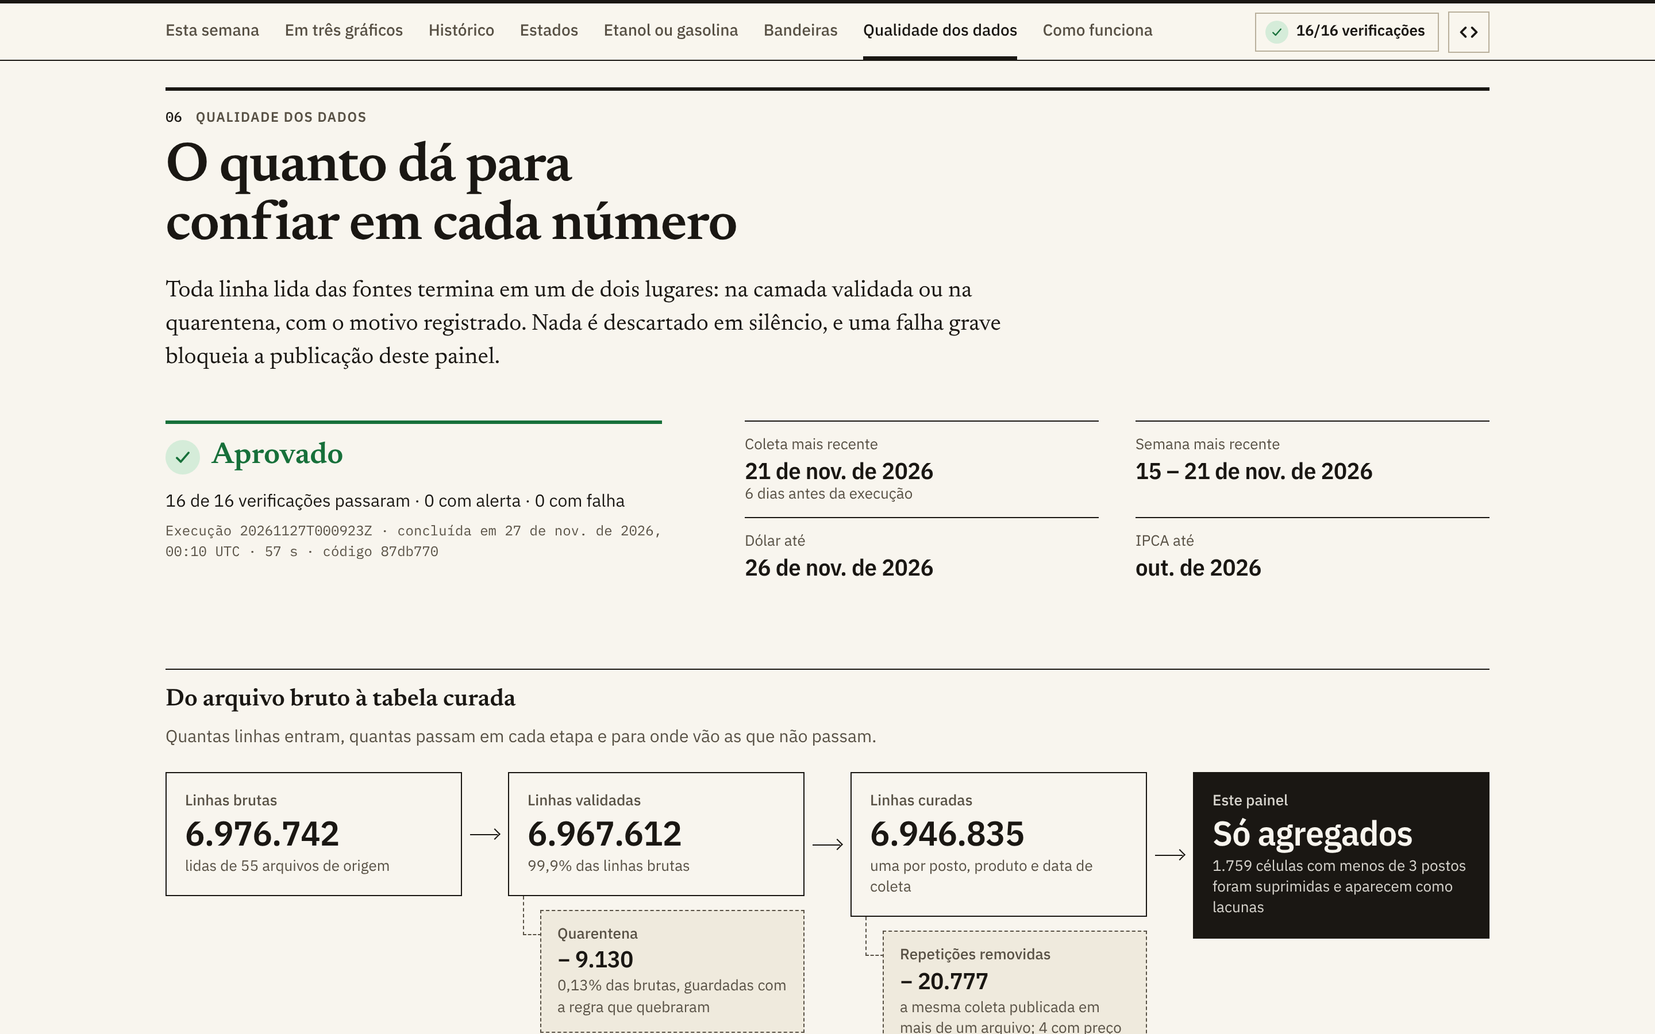
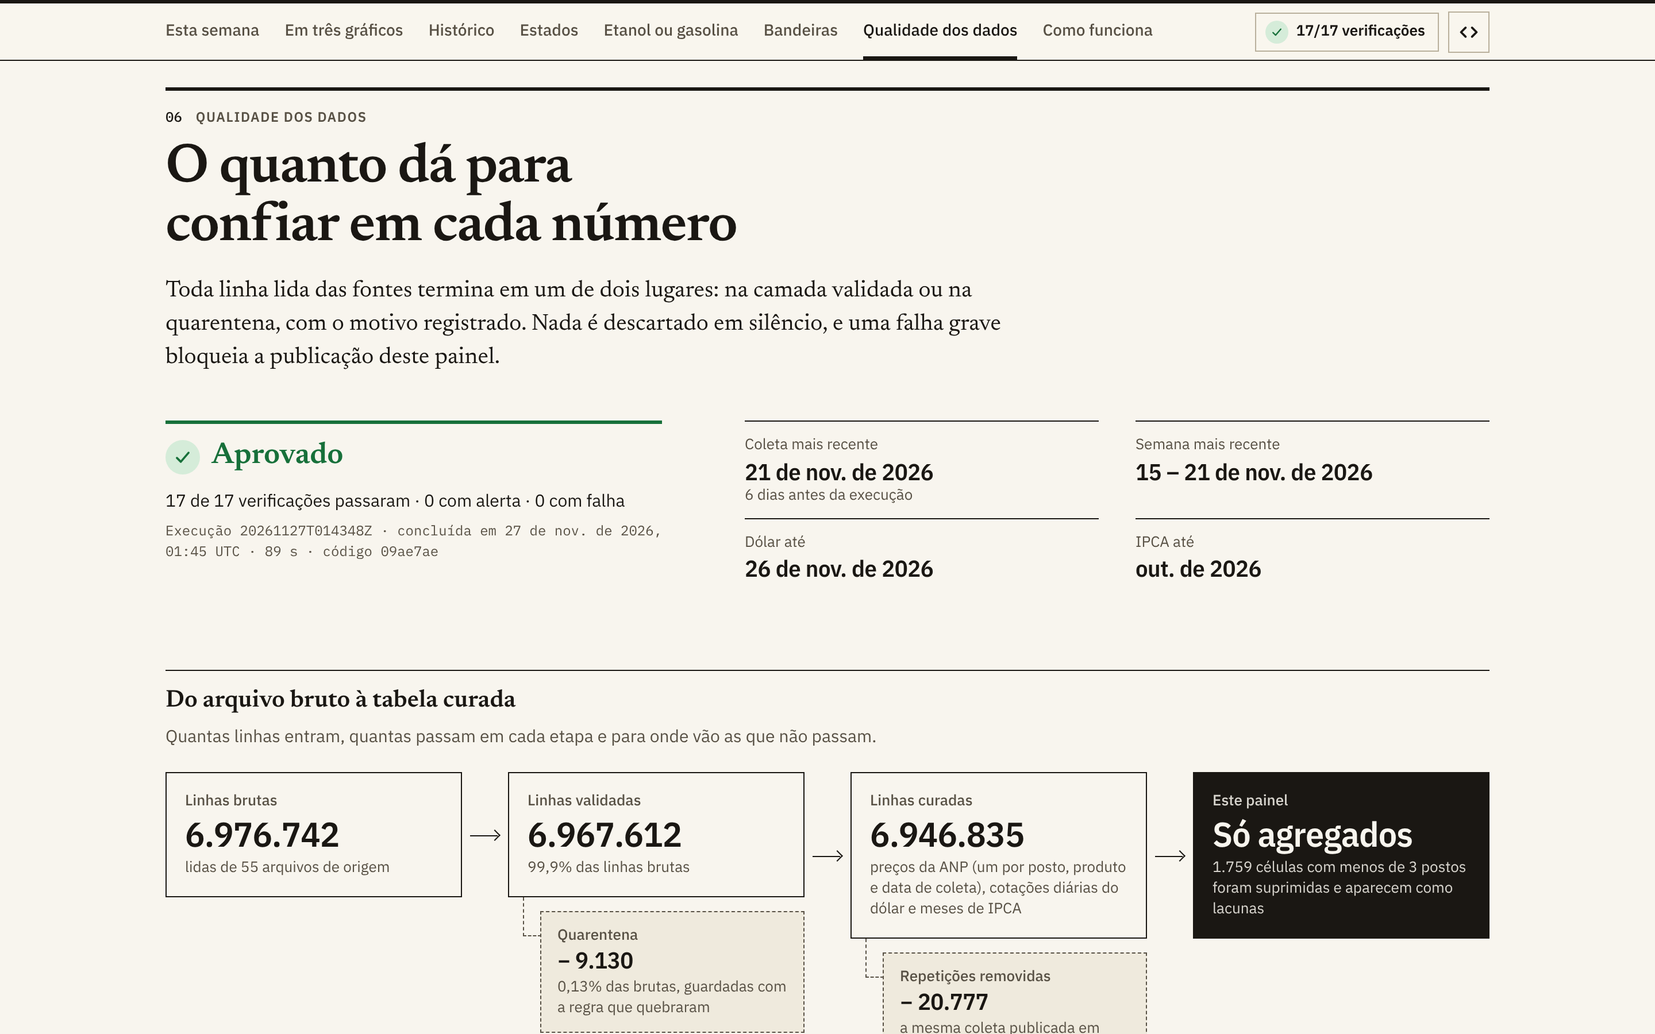
Dashboard: provisional real change, honest axes and labels, accurate copy
- The 12-month change after inflation of a week whose month has no IPCA
  yet uses the IPCA of the 12 months to the latest published month and is
  marked provisional, in the headline text and the table.
- The run-history axis never ticks finer than a day, so it no longer
  repeats the same date; a line that stops early keeps its end label only
  with the date of its last value, and none after 13 weeks.
- A week without an ANP survey says so in the state ranking instead of
  blaming suppression; a rule that caught one row shows its share.
- Keyboard focus and section jumps clear the sticky nav.
- Copy: rules counted for ANP rows (22, of which 18 are errors), the
  contracts named as they are (Pandera, DuckDB checks, Python checks),
  running twice produces identical tables, the curated funnel step names
  both sources, twice a week.
- Screenshots regenerated from a run of 27 November.

Claude-Session: https://claude.ai/code/session_016oQsZBNgyga8DMpdX59L2c

diff --git a/src/fuel_price_lakehouse/site/static/js/strings.js b/src/fuel_price_lakehouse/site/static/js/strings.js
@@ -151,6 +151,10 @@ export const STRINGS = {
     "Em 12 meses, a média nacional variou {nominal} em valores correntes e {real} descontada a inflação (IPCA).",
     "Over 12 months the national average moved {nominal} in current prices and {real} after inflation (IPCA).",
   ],
+  "ov.dek.year.provisional": [
+    "Em 12 meses, a média nacional variou {nominal} em valores correntes e cerca de {real} descontada a inflação: provisório, porque o IPCA de {month} ainda não saiu e a conta usa a inflação dos 12 meses até {reference}.",
+    "Over 12 months the national average moved {nominal} in current prices and about {real} after inflation: provisional, because the IPCA for {month} is not out yet and the figure uses inflation over the 12 months to {reference}.",
+  ],
   "ov.dek.base": [
     "O número é a média de {stations} postos em {states} unidades da federação, pesquisados na semana de {week}.",
     "The figure is the average of {stations} stations in {states} states, surveyed in the week of {week}.",
@@ -184,6 +188,10 @@ export const STRINGS = {
     "Variações sobre a semana anterior e sobre 52 semanas antes; “real” desconta o IPCA (preços de {month}). Médias simples dos postos pesquisados: a ANP pondera as médias nacional e estaduais pelo volume de vendas, por isso os boletins oficiais diferem um pouco. Dólar: média semanal da cotação de venda.",
     "Changes against the previous week and 52 weeks earlier; “real” removes IPCA inflation ({month} prices). Simple means over the surveyed stations: ANP weights its national and state averages by sales volume, so its bulletins differ slightly. Dollar: weekly average of the sell rate.",
   ],
+  "ov.board.provisional": [
+    "* O IPCA de {month} ainda não foi divulgado: a variação real usa a inflação dos 12 meses até {reference} e é provisória.",
+    "* The IPCA for {month} is not out yet: the real change uses inflation over the 12 months to {reference} and is provisional.",
+  ],
   "ov.tot.lead": ["A base, desde {since}", "The dataset, since {since}"],
   "ov.tot.observations": ["preços coletados", "prices collected"],
   "ov.tot.stations": ["postos pesquisados", "stations surveyed"],
@@ -192,8 +200,8 @@ export const STRINGS = {
   "ov.pr.title": ["O que é este projeto", "What this project is"],
   "ov.pr.auto.lead": ["Um pipeline automático.", "An automated pipeline."],
   "ov.pr.auto": [
-    "Toda semana, o GitHub Actions coleta os preços que a ANP pesquisa nos postos e as séries de dólar e IPCA do Banco Central, e reconstrói este painel.",
-    "Every week, GitHub Actions collects the prices ANP surveys at the stations and the dollar and IPCA series from Banco Central, and rebuilds this dashboard.",
+    "Duas vezes por semana, o GitHub Actions coleta os preços que a ANP pesquisa nos postos e as séries de dólar e IPCA do Banco Central, e reconstrói este painel.",
+    "Twice a week, GitHub Actions collects the prices ANP surveys at the stations and the dollar and IPCA series from Banco Central, and rebuilds this dashboard.",
   ],
   "ov.pr.quarantine.lead": ["Quarentena, não exclusão.", "Quarantine, not deletion."],
   "ov.pr.quarantine.plain": [
@@ -201,8 +209,8 @@ export const STRINGS = {
     "Every row goes through validation rules; one that breaks a rule goes to quarantine with the reason, and is never deleted.",
   ],
   "ov.pr.quarantine": [
-    "Cada linha passa por {n} regras; a que quebra uma delas vai para a quarentena com o motivo, nunca é apagada.",
-    "Every row goes through {n} rules; one that breaks a rule goes to quarantine with the reason, and is never deleted.",
+    "Cada linha da ANP passa por {n} regras; a que quebra uma das {errors} regras de erro vai para a quarentena com o motivo, nunca é apagada, e as demais só a sinalizam.",
+    "Every ANP row goes through {n} rules; one that breaks any of the {errors} error rules goes to quarantine with the reason, and is never deleted; the others only flag it.",
   ],
   "ov.pr.gate.lead": ["Um portão de qualidade.", "A quality gate."],
   "ov.pr.gate.plain": [
@@ -324,9 +332,10 @@ export const STRINGS = {
   ],
   "st.rank.unit": ["barras: desvio % em relação à média nacional", "bars: % deviation from the national average"],
   "st.rank.missing": [
-    "Sem dado nesta semana ({n}): {list}. Agregados com menos de {min} postos não são publicados.",
-    "No value this week ({n}): {list}. Aggregates with fewer than {min} stations are not published.",
+    "Sem dado nesta semana ({n}): {list}. Não pesquisados, ou suprimidos por ter menos de {min} postos.",
+    "No value this week ({n}): {list}. Not surveyed, or suppressed because fewer than {min} stations.",
   ],
+  "st.rank.nosurvey": ["A ANP não publicou pesquisa nesta semana.", "ANP published no survey for this week."],
   "st.action.hint": ["Clique num estado para destacá-lo e compará-lo com o Brasil.", "Click a state to highlight it and compare it with Brazil."],
   "st.action.selected": ["em destaque", "highlighted"],
   "st.action.compare": ["Comparar {name} com o Brasil no histórico", "Compare {name} with Brazil in the history"],
@@ -468,7 +477,10 @@ export const STRINGS = {
   "qa.funnel.quarantine": ["Quarentena", "Quarantine"],
   "qa.funnel.quarantine.note": ["{pct} das brutas, guardadas com a regra que quebraram", "{pct} of raw rows, kept with the rule they broke"],
   "qa.funnel.curated": ["Linhas curadas", "Curated rows"],
-  "qa.funnel.curated.note": ["uma por posto, produto e data de coleta", "one per station, product and collection date"],
+  "qa.funnel.curated.note": [
+    "preços da ANP (um por posto, produto e data de coleta), cotações diárias do dólar e meses de IPCA",
+    "ANP prices (one per station, product and collection date), daily dollar rates and IPCA months",
+  ],
   "qa.funnel.duplicates": ["Repetições removidas", "Repeated rows removed"],
   "qa.funnel.duplicates.note": ["a mesma coleta publicada em mais de um arquivo; {n} com preço divergente", "the same observation published more than once; {n} with a conflicting price"],
   "qa.invariant.ok": ["Confere", "Balanced"],
@@ -583,8 +595,8 @@ export const STRINGS = {
   "ab.kicker": ["Como funciona", "How it works"],
   "ab.title": ["Um pipeline pequeno, automático e auditável", "A small, automatic, auditable pipeline"],
   "ab.what.1": [
-    "Toda semana, este projeto coleta os preços que a ANP pesquisa em milhares de postos e as séries de câmbio e inflação do Banco Central.",
-    "Every week this project collects the prices ANP surveys at thousands of stations, along with the exchange-rate and inflation series from Banco Central.",
+    "Duas vezes por semana, este projeto coleta os preços que a ANP pesquisa em milhares de postos e as séries de câmbio e inflação do Banco Central.",
+    "Twice a week this project collects the prices ANP surveys at thousands of stations, along with the exchange-rate and inflation series from Banco Central.",
   ],
   "ab.what.2": [
     "Cada linha passa por regras de validação: a que quebra uma regra vai para a quarentena, com o motivo, e as demais viram tabelas prontas para análise.",
@@ -638,8 +650,8 @@ export const STRINGS = {
   ],
   "ab.g.idempotent": ["Idempotente", "Idempotent"],
   "ab.g.idempotent.text": [
-    "Rodar duas vezes seguidas não baixa nem regrava nada. Um arquivo só é revalidado se o conteúdo bruto ou a versão das regras mudar.",
-    "Running it twice in a row downloads nothing and rewrites nothing. A file is validated again only when its raw content or the rules version changes.",
+    "Rodar duas vezes seguidas não baixa nada e produz tabelas idênticas. Um arquivo só é revalidado se o conteúdo bruto ou a versão das regras mudar.",
+    "Running it twice in a row downloads nothing and produces identical tables. A file is validated again only when its raw content or the rules version changes.",
   ],
   "ab.g.quarantine": ["Quarentena, não descarte", "Quarantine, not drop"],
   "ab.g.quarantine.text": [
@@ -648,8 +660,8 @@ export const STRINGS = {
   ],
   "ab.g.contracts": ["Contratos", "Contracts"],
   "ab.g.contracts.text": [
-    "Cada camada tem um esquema declarado (Pandera). Quebra de contrato interrompe a execução, e uma verificação de erro que falha impede a publicação.",
-    "Each layer has a declared schema (Pandera). A contract violation stops the run, and a failing error check prevents publication.",
+    "Cada fronteira tem um contrato verificado: Pandera nas tabelas validadas, verificações em DuckDB nas tabelas curadas, em Python nos arquivos do site. Quebra de contrato interrompe a execução, e uma verificação de erro que falha impede a publicação.",
+    "Every boundary has a checked contract: Pandera on the staged tables, DuckDB checks on the curated tables, Python checks on the site files. A contract violation stops the run, and a failing error check prevents publication.",
   ],
   "ab.g.cost": ["Custo zero", "Zero cost"],
   "ab.g.cost.text": [

diff --git a/src/fuel_price_lakehouse/site/static/js/views/overview.js b/src/fuel_price_lakehouse/site/static/js/views/overview.js
@@ -7,7 +7,7 @@
 import { h } from "../dom.js";
 import { t, fmt, productLabel, productInline, unitLabel, unitPhrase } from "../i18n.js";
 import { parseIsoDate, toDate, fileOf } from "../data.js";
-import { latestStats, latestChange, endOfWeek, stateRows } from "../series.js";
+import { latestStats, latestChange, endOfWeek, stateRows, weekMonth } from "../series.js";
 import { sparkline } from "../charts.js";
 import { linkTo } from "../state.js";
 import { delta, statusBadge, credit, viewLink, missingFile } from "../ui.js";
@@ -26,7 +26,13 @@ function headline(product, stats) {
 
 function standfirst(model, stats) {
   const parts = [];
-  if (stats.year != null) parts.push(t("ov.dek.year", { nominal: fmt.pct(stats.year, 1, true), real: fmt.pct(stats.yearReal, 1, true) }));
+  if (stats.year != null) {
+    const figures = { nominal: fmt.pct(stats.year, 1, true), real: fmt.pct(stats.yearReal, 1, true) };
+    if (stats.yearRealProvisional) {
+      Object.assign(figures, { month: fmt.month(weekMonth(model.dates[stats.index])), reference: fmt.month(model.meta.ipca_reference_month) });
+    }
+    parts.push(t(stats.yearRealProvisional ? "ov.dek.year.provisional" : "ov.dek.year", figures));
+  }
   if (stats.stations != null) {
     parts.push(t("ov.dek.base", { stations: fmt.int(stats.stations), states: stats.states ?? "—", week: fmt.week(model.dates[stats.index]) }));
   }
@@ -36,7 +42,9 @@ function standfirst(model, stats) {
 /** What the project is, in the first screen: the reason this page exists. */
 function projectBox(model, goTo) {
   const quality = model.quality;
-  const rules = Array.isArray(quality?.rules) ? quality.rules.length : 0;
+  // A row is judged by the rules of its own source: count ANP's, the source of the prices.
+  const anpRules = Array.isArray(quality?.rules) ? quality.rules.filter((r) => r.source === "anp") : [];
+  const errorRules = anpRules.filter((r) => r.severity === "error").length;
   const checks = Array.isArray(quality?.checks) ? quality.checks : [];
   const passed = checks.filter((c) => c.status === "pass").length;
   const item = (key, text) => h("li", null, h("strong", null, t(`ov.pr.${key}.lead`)), " ", text);
@@ -48,7 +56,7 @@ function projectBox(model, goTo) {
       "ul",
       { class: "project-list", role: "list" },
       item("auto", t("ov.pr.auto")),
-      item("quarantine", rules ? t("ov.pr.quarantine", { n: rules }) : t("ov.pr.quarantine.plain")),
+      item("quarantine", anpRules.length ? t("ov.pr.quarantine", { n: anpRules.length, errors: errorRules }) : t("ov.pr.quarantine.plain")),
       item("gate", checks.length ? t("ov.pr.gate", { n: checks.length, pass: passed }) : t("ov.pr.gate.plain")),
     ),
     h(
@@ -109,9 +117,11 @@ function board(model, goTo) {
     h("th", { scope: "col", class: "col-spark" }, t("ov.col.trend")),
   );
   const rows = [];
+  let provisional = null;
   for (const product of model.products) {
     const stats = latestStats(model, product.id);
     if (!stats) continue;
+    if (stats.yearRealProvisional) provisional ??= weekMonth(model.dates[stats.index]);
     const values = model.national[product.id].mean;
     rows.push(
       h(
@@ -126,7 +136,13 @@ function board(model, goTo) {
         h("td", { class: "num b-price" }, fmt.price(stats.price, product.unit)),
         h("td", { class: "num", "data-label": t("ov.col.week") }, delta(stats.week)),
         h("td", { class: "num", "data-label": t("ov.col.year") }, delta(stats.year)),
-        h("td", { class: "num", "data-label": t("ov.col.real") }, delta(stats.yearReal)),
+        h(
+          "td",
+          { class: "num", "data-label": t("ov.col.real"), title: stats.yearRealProvisional ? t("tip.provisional") : null },
+          delta(stats.yearReal),
+          stats.yearRealProvisional ? h("span", { class: "prov-mark", "aria-hidden": "true" }, "*") : null,
+          stats.yearRealProvisional ? h("span", { class: "sr-only" }, ` (${t("tip.provisional")})`) : null,
+        ),
         h("td", { class: "col-spark" }, sparkline(values.slice(Math.max(0, stats.index - 52), stats.index + 1))),
       ),
     );
@@ -158,7 +174,11 @@ function board(model, goTo) {
     { class: "board" },
     h("h2", { class: "board-title" }, t("ov.board.title")),
     h("table", { class: "board-table" }, h("caption", { class: "sr-only" }, t("ov.board.caption")), h("thead", null, head), h("tbody", null, rows)),
-    h("p", { class: "fig-source" }, `${t("ov.board.note", { month })} ${credit("anp", "bcb")}`),
+    h(
+      "p",
+      { class: "fig-source" },
+      [t("ov.board.note", { month }), provisional ? t("ov.board.provisional", { month: fmt.month(provisional), reference: month }) : null, credit("anp", "bcb")].filter(Boolean).join(" "),
+    ),
   );
 }
 

diff --git a/src/fuel_price_lakehouse/site/static/js/charts.js b/src/fuel_price_lakehouse/site/static/js/charts.js
@@ -21,6 +21,8 @@ import { showTip, hideTip, claimCrosshair, releaseCrosshair } from "./tooltip.js
 import { addEventMarkers } from "./chart-events.js";
 
 const DAY_MS = 86_400_000;
+/** Beyond this many weeks before the end of the window, a line's end gets no label. */
+const STALE_LABEL_WEEKS = 13;
 const FONT_FAMILY = '"IBM Plex Sans", system-ui, sans-serif';
 const SYMBOLS = { pass: d3.symbolCircle, warn: d3.symbolTriangle, fail: d3.symbolSquare };
 
@@ -49,6 +51,14 @@ function timeAxis(first, last, plotWidth) {
   if (yearly && first.getUTCMonth() === 0 && first.getUTCDate() <= 14 && !isYearStart(first)) {
     const step = ticks.length > 1 ? ticks[1].getUTCFullYear() - ticks[0].getUTCFullYear() : 1;
     if (step === 1 && (!ticks.length || ticks[0].getUTCFullYear() > first.getUTCFullYear())) ticks = [first, ...ticks];
+  }
+  // Ticks finer than a day (the run history of a young dashboard) would repeat
+  // the same day label: tick by whole days instead, or once within a single day.
+  if (!yearly && ticks.some((d) => d.getTime() % DAY_MS !== 0)) {
+    const days = Math.ceil((last - first) / DAY_MS);
+    const step = Math.max(1, Math.ceil(days / Math.max(2, Math.floor(plotWidth / 84))));
+    ticks = d3.utcDay.every(step).range(d3.utcDay.ceil(first), new Date(last.getTime() + 1));
+    if (!ticks.length) ticks = [first];
   }
   const monthly = ticks.every((d) => d.getUTCDate() === 1);
   const format = (date, index) => {
@@ -153,9 +163,15 @@ export function timeChart(host, config) {
     for (const sr of lead) {
       const li = lastValid(sr.values, i1);
       if (li < i0) continue;
+      // A series that ends before the others (its latest weeks suppressed) keeps
+      // its label only with the date of that value, and none once the line
+      // visibly stops months earlier: an undated label reads as this week's.
+      if (i1 - li > STALE_LABEL_WEEKS) continue;
       const name = mode === "value" ? "" : (sr.short ?? sr.label);
       const value = mode === "name" ? "" : yFormat(sr.values[li]);
-      ends.push({ sr, li, name, value, w: textWidth(name, 12, 600) + textWidth(value, 12) + (name && value ? 5 : 0) });
+      const when = li < i1 ? `· ${fmt.dayMonth(dates[li])}` : "";
+      const w = textWidth(name, 12, 600) + textWidth(value, 12) + (name && value ? 5 : 0) + (when ? textWidth(when, 12) + 4 : 0);
+      ends.push({ sr, li, name, value, when, w });
     }
   }
   const labelWidth = ends.length ? Math.max(...ends.map((e) => e.w)) : 0;
@@ -334,7 +350,8 @@ export function timeChart(host, config) {
       group.append("circle").attr("cx", end.x).attr("cy", end.y).attr("r", 4).attr("fill", end.sr.color).attr("stroke", tk.paper).attr("stroke-width", 2);
       const text = group.append("text").attr("x", end.x + 11).attr("y", end.ly).attr("dy", "0.35em").attr("text-anchor", "start").attr("fill", tk.ink).attr("font-size", 12);
       if (end.name) text.append("tspan").attr("font-weight", 600).text(end.name);
-      if (end.value) text.append("tspan").attr("dx", end.name ? 5 : 0).attr("fill", end.name ? tk.ink2 : tk.ink).attr("font-weight", end.name ? 400 : 600).text(end.value);
+      if (end.value) text.append("tspan").attr("dx", end.name ? 5 : 0).attr("fill", end.name || end.when ? tk.ink2 : tk.ink).attr("font-weight", end.name ? 400 : 600).text(end.value);
+      if (end.when) text.append("tspan").attr("dx", 4).attr("fill", tk.ink3).text(end.when);
     }
   }
 

diff --git a/src/fuel_price_lakehouse/site/static/js/series.js b/src/fuel_price_lakehouse/site/static/js/series.js
@@ -137,17 +137,51 @@ export function latestChange(model, values) {
   };
 }
 
+/** "YYYY-MM" of a survey week: the month of its Wednesday, the month the deflator uses. */
+export function weekMonth(date) {
+  const wednesday = new Date(date.getTime() + 3 * DAY_MS);
+  return `${wednesday.getUTCFullYear()}-${String(wednesday.getUTCMonth() + 1).padStart(2, "0")}`;
+}
+
+/** IPCA over the 12 months to the reference month, I(ref) / I(ref - 12), read from the deflator. */
+function ipcaTwelveMonths(model) {
+  const reference = model.meta.ipca_reference_month;
+  if (typeof reference !== "string" || !/^\d{4}-\d{2}$/.test(reference)) return null;
+  const [year, month] = reference.split("-");
+  const yearBefore = `${Number(year) - 1}-${month}`;
+  const i = model.dates.findIndex((date, k) => model.deflator[k] != null && weekMonth(date) === yearBefore);
+  return i < 0 ? null : model.deflator[i];
+}
+
+/**
+ * The 12-month change after inflation of a latest figure. A week whose month
+ * has no IPCA yet is deflated only to the latest published month, so a plain
+ * ratio of real prices would leave one month of inflation out. For such a week
+ * the IPCA of the 12 months to the latest published month stands in, and the
+ * change is marked provisional.
+ */
+function yearReal(model, fuel, base) {
+  if (base.yearIndex < 0) return { value: null, provisional: false };
+  if (!model.provisional[base.index]) {
+    const real = nationalMean(model, fuel, true);
+    return { value: pctChange(real[base.index], real[base.yearIndex]), provisional: false };
+  }
+  const inflation = ipcaTwelveMonths(model);
+  return { value: inflation == null ? null : (1 + base.year) / inflation - 1, provisional: true };
+}
+
 /** Latest national figures of one product: price, changes and sample size. */
 export function latestStats(model, fuel) {
   const series = model.national[fuel];
   if (!series) return null;
   const base = latestChange(model, series.mean);
   if (!base) return null;
-  const real = nationalMean(model, fuel, true);
+  const real = yearReal(model, fuel, base);
   return {
     ...base,
     price: base.value,
-    yearReal: base.yearIndex >= 0 ? pctChange(real[base.index], real[base.yearIndex]) : null,
+    yearReal: real.value,
+    yearRealProvisional: real.provisional,
     stations: series.n_stations?.[base.index] ?? null,
     states: series.n_states?.[base.index] ?? null,
     isLatestWeek: base.index === model.latest,

diff --git a/src/fuel_price_lakehouse/site/static/styles.css b/src/fuel_price_lakehouse/site/static/styles.css
@@ -211,6 +211,8 @@
 html {
   -webkit-text-size-adjust: 100%;
   text-size-adjust: 100%;
+  /* Keyboard focus and anchor jumps stop below the sticky section nav. */
+  scroll-padding-top: 64px;
 }
 body {
   margin: 0;
@@ -573,10 +575,11 @@ main[data-state="error"] .sec {
   padding: 0 16px;
 }
 /* Space between sections is a margin, so that jumping to a section lands on
-   its heading rule, just below the sticky nav. */
+   its heading rule, just below the sticky nav (the html scroll padding clears
+   the nav; this adds a little air). */
 .sec {
   margin-top: clamp(64px, 8vw, 112px);
-  scroll-margin-top: 76px;
+  scroll-margin-top: 12px;
 }
 .sec-overview {
   margin-top: clamp(28px, 4.5vw, 60px);
@@ -3046,4 +3049,11 @@ th[aria-sort="ascending"] .sort-mark {
   .tip-key {
     forced-color-adjust: none;
   }
+}
+
+/* A provisional figure: the month's IPCA is not out yet (see the table note). */
+.prov-mark {
+  margin-left: 2px;
+  color: var(--ink-3);
+  font-weight: 600;
 }

diff --git a/src/fuel_price_lakehouse/site/static/js/views/states.js b/src/fuel_price_lakehouse/site/static/js/views/states.js
@@ -302,8 +302,12 @@ export function mountStates(root, { model, goTo }) {
       }),
     );
     if (!withData.length) rank.append(h("li", { class: "empty" }, t("st.none.week")));
-    rankNote.textContent = without.length ? t("st.rank.missing", { n: without.length, list: without.map((r) => r.st.code).join(", "), min: model.meta.min_stations_published ?? "—" }) : "";
-    rankNote.hidden = !without.length;
+    // A week without an ANP survey has no national value either: say so, and do
+    // not blame suppression for it.
+    const surveyed = model.national[state.fuel]?.mean?.[i] != null;
+    if (!surveyed) rankNote.textContent = t("st.rank.nosurvey");
+    else rankNote.textContent = without.length ? t("st.rank.missing", { n: without.length, list: without.map((r) => r.st.code).join(", "), min: model.meta.min_stations_published ?? "—" }) : "";
+    rankNote.hidden = !rankNote.textContent;
     rovingFocus(rank, ".rank-row");
 
     if (keep) {

diff --git a/src/fuel_price_lakehouse/site/static/js/views/quality-tables.js b/src/fuel_price_lakehouse/site/static/js/views/quality-tables.js
@@ -35,7 +35,7 @@ function severityTag(severity, scope = "sev") {
 
 /** A share of rows; a non-zero share that would round to zero is shown as "< 0.001%". */
 function sharePct(share) {
-  if (!share) return "—";
+  if (share == null) return "—";
   return share < 0.000005 ? `< ${fmt.pct(0.00001, 3)}` : fmt.pct(share, 3);
 }
 
